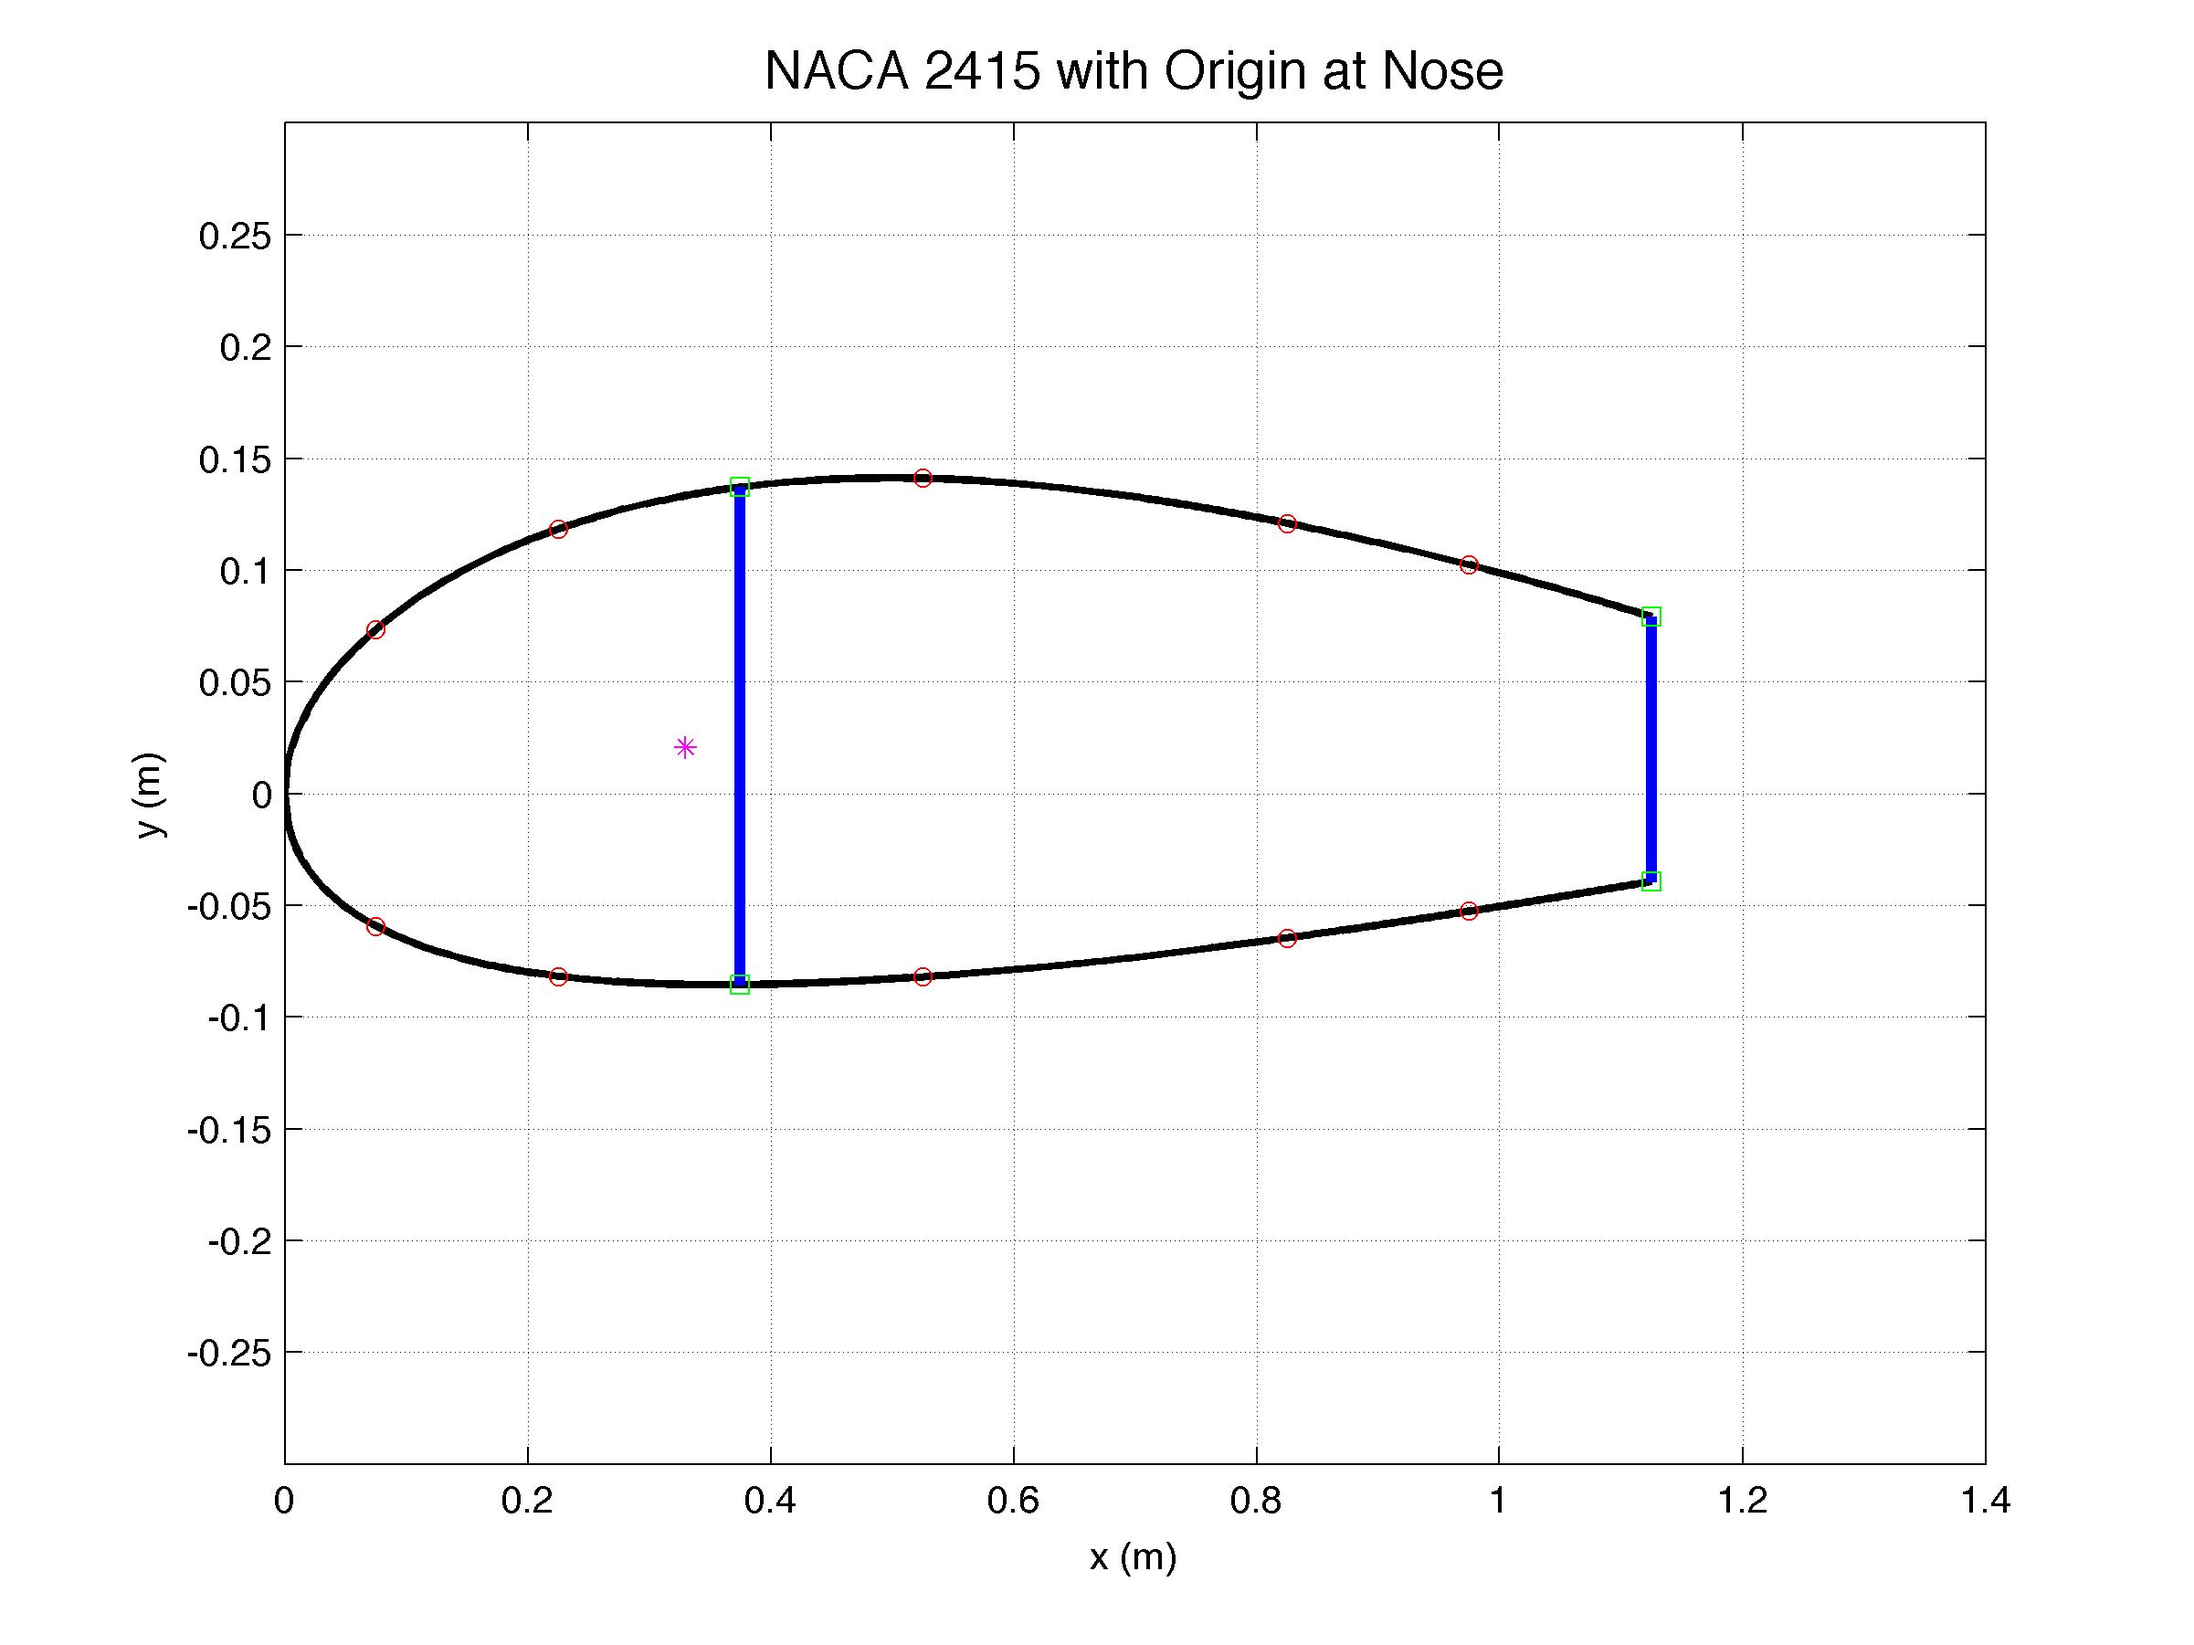
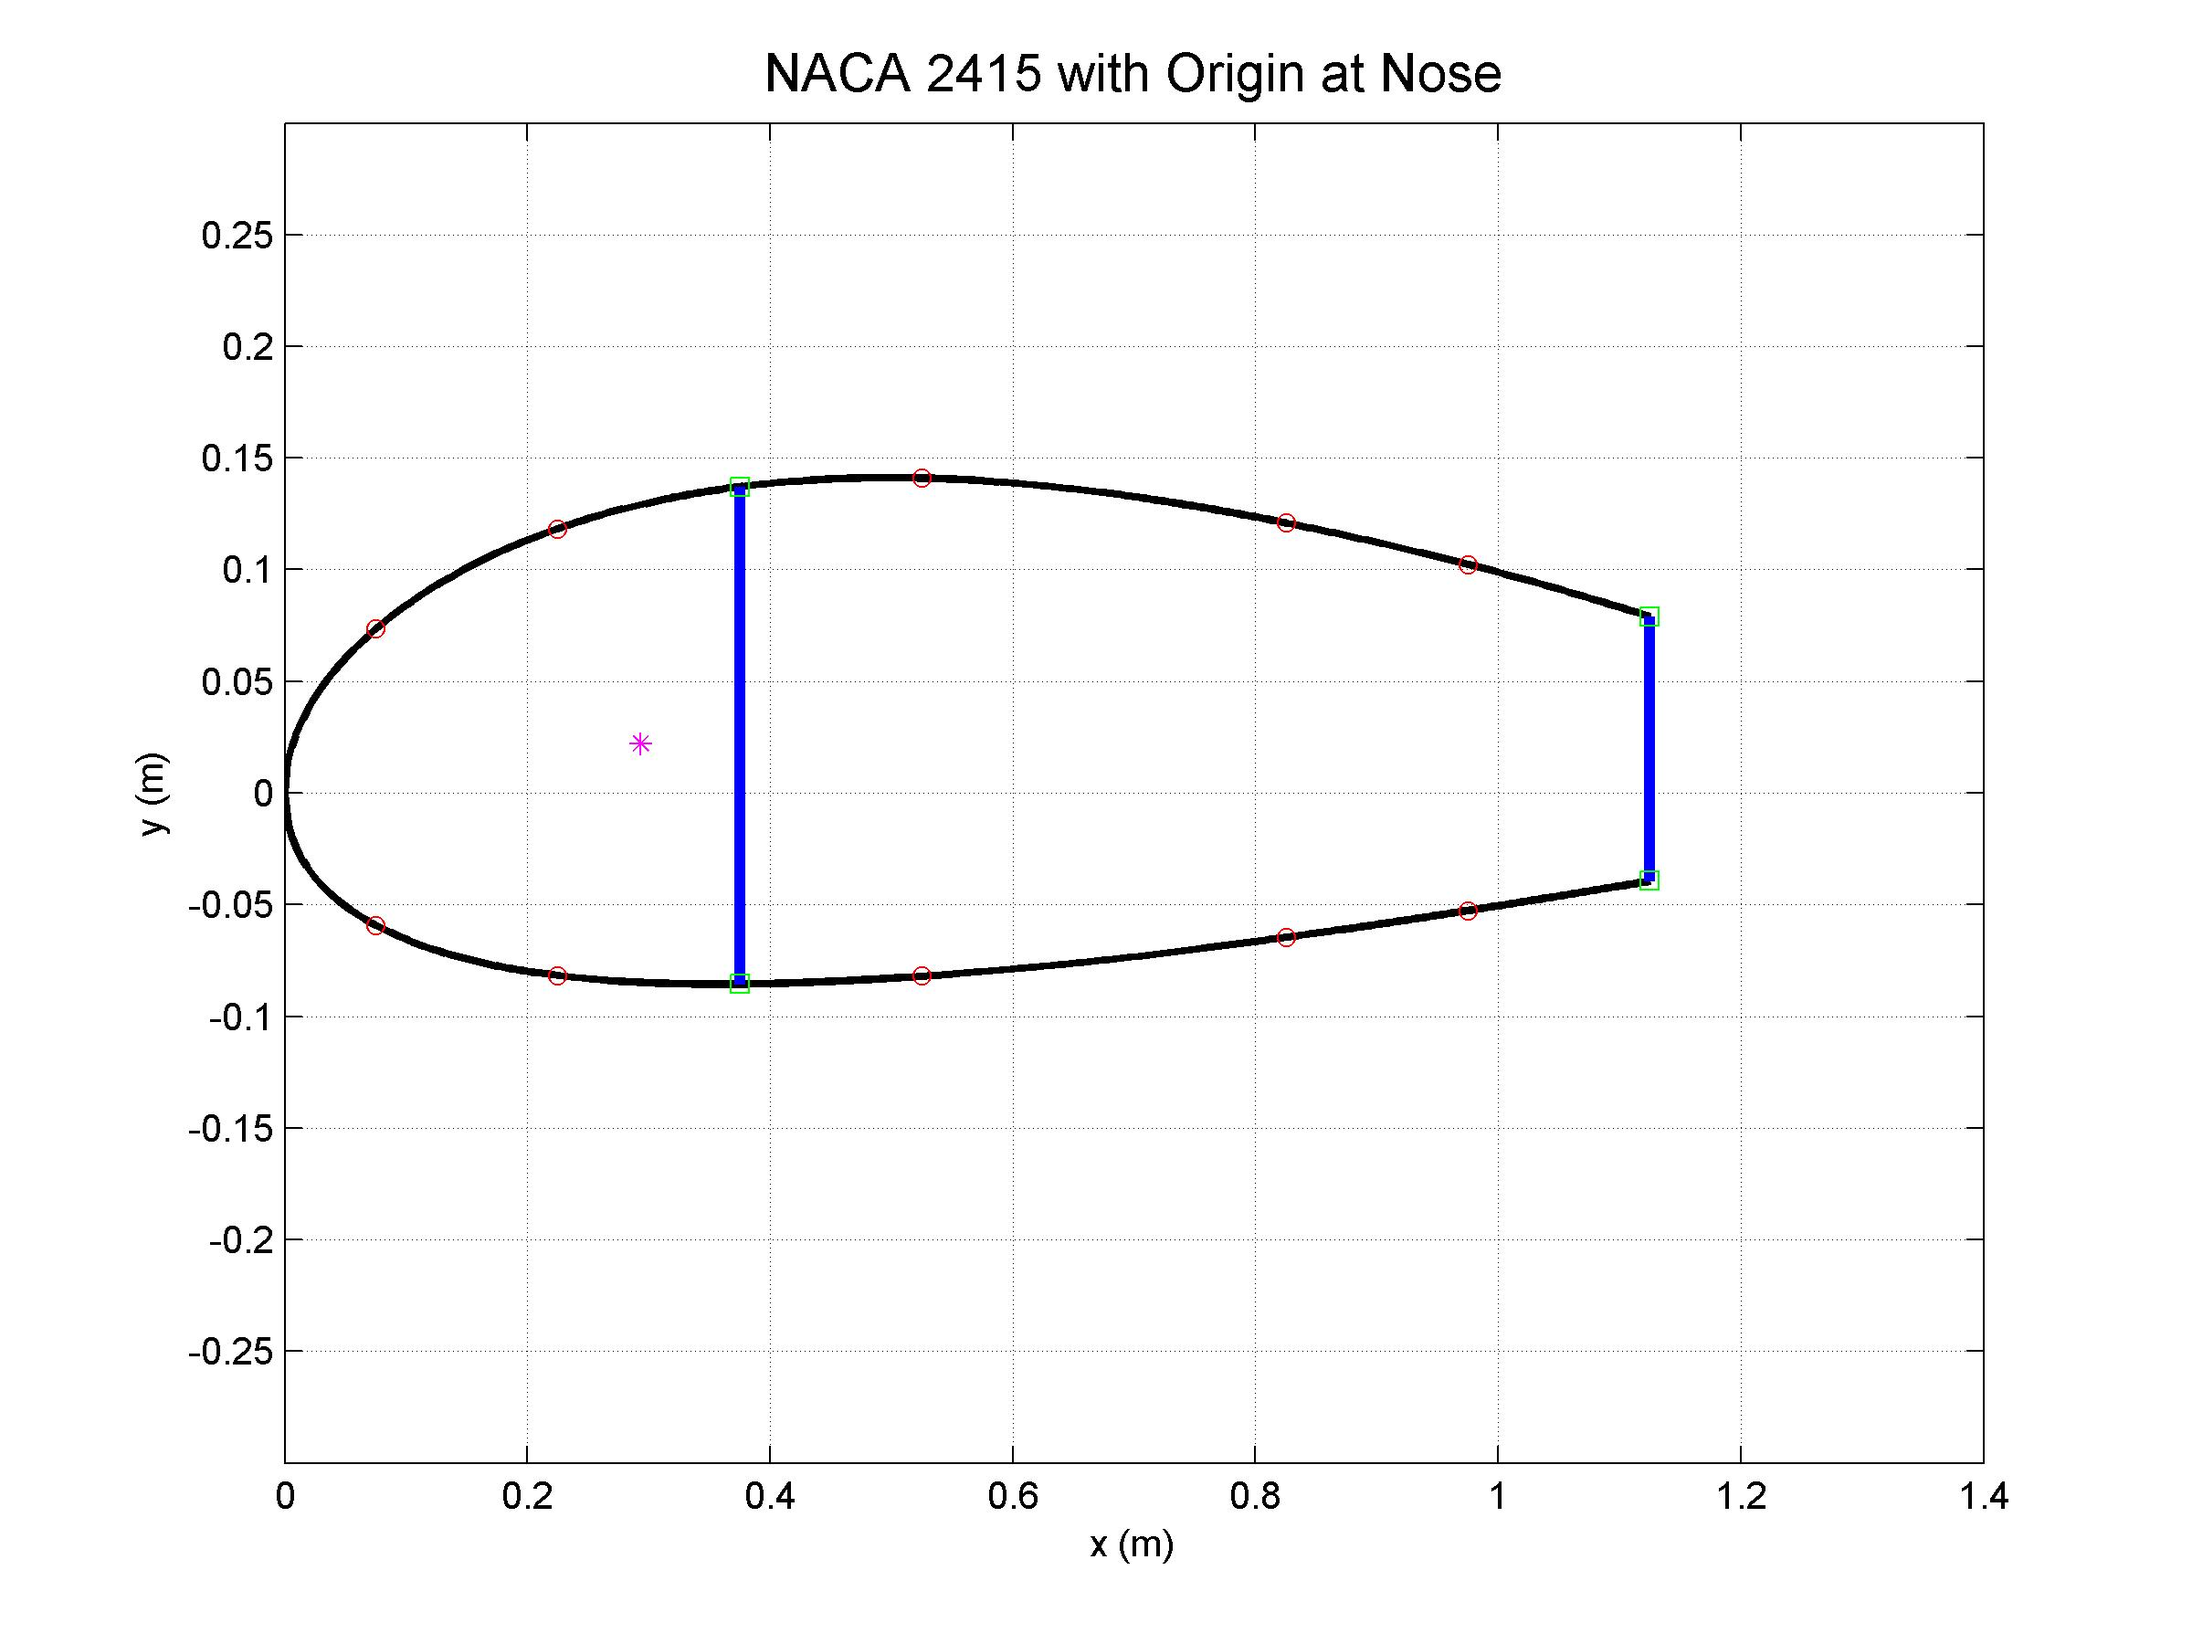
Open Shear Flow
work in progress...

diff --git a/airfoil_section.m b/airfoil_section.m
@@ -117,6 +117,7 @@ L_skinU = zeros(1,n_skinU);
 A_skinU = zeros(1,n_skinU);
 Cx_skinU = zeros(1,n_skinU);
 Cy_skinU = zeros(1,n_skinU);
+
 for i = 1:n_skinU
     L_skinU(i) = sqrt((yU(i_skinU(i+1)) - yU(i_skinU(i)))^2 + (x_skinU(i+1) - x_skinU(i))^2);
     A_skinU(i) = t_skin*L_skinU(i);
@@ -145,18 +146,24 @@ Cy_sum = 0;
 A_sum = 0;
 
 % 2 spars
-for i = 1:2
+for i = 1:length(x_spar)
     Cx_sum = Cx_sum + x_spar(i)*A_spar(i);
     Cy_sum = Cy_sum + Cy_spar(i)*A_spar(i);
     A_sum = A_sum + A_spar(i);
 end
 
 % spar caps
-for i = 1:2
-    Cx_sum = Cx_sum + x_spar(i)*A_cap;
-    Cy_sum = Cy_sum + yU(i_spar(i))*A_cap;
-    Cy_sum = Cy_sum + yL(i_spar(i))*A_cap;
-    A_sum  = A_sum  + 2*A_cap;
+for i = 1:length(x_spar)
+    if i ~= length(x_spar)
+        n = 2; % 2 spar caps per spar
+    else 
+        n = 1; % 1 spar cap for most rear spar (next to control surface)
+    end
+    Cx_sum = Cx_sum + x_spar(i)*n*A_cap;
+    Cy_sum = Cy_sum + yU(i_spar(i))*n*A_cap;
+    Cy_sum = Cy_sum + yL(i_spar(i))*n*A_cap;
+    A_sum  = A_sum  + 2*n*A_cap;
+
 end
 
 % upper stringers
@@ -196,7 +203,9 @@ if PLOT_AIRFOIL
     ylim([-0.3 0.3])
     hold on; grid on;
     plot(x_strU,yU(i_strU),'or',x_strL,yL(i_strL),'or','markersize',5);
-    plot([x_spar(1),x_spar(1)],[yU(i_spar(1)),yL(i_spar(1))],'b',[x_spar(2),x_spar(2)],[yU(i_spar(2)),yL(i_spar(2))],'b',[x(end),x(end)],[yU(end),yL(end)],'b','Linewidth',3);
+    for i = 1:length(x_spar)
+        plot([x_spar(i),x_spar(i)],[yU(i_spar(i)),yL(i_spar(i))],'b','Linewidth',3)
+    end
     plot(x_spar,yU(i_spar),'sg',x_spar,yL(i_spar),'sg','markersize',6);
     scatter(Cx,Cy,'m*')
     title('NACA 2415 with Origin at Nose','fontsize',14);
@@ -256,19 +265,29 @@ for i = 1:n_skinL
 end
 
 %% convert coordinates to centroid as origin
-airf_geo.x  = x  - Cx;              % x-coordinates (relative to centroid)
-airf_geo.xU = xU - Cx;              % x-coordinates of upper surface booms (rel to centroid)
-airf_geo.yU = yU - Cy;              % y-coordinates of upper surface booms (rel to centroid)
-airf_geo.xL = xL - Cx;              % x-coordiantes of lower surface booms (rel to centroid)
-airf_geo.yL = yL - Cy;              % y-coordinates of lower surface booms (rel to centroid)
-airf_geo.x_strU = x_strU - Cx;      % x-coordinates of upper stringers (rel to centroid)
-airf_geo.x_strL = x_strL - Cx;      % x-coordinates of lower strings (rel to centroid)
-airf_geo.x_spar = x_spar - Cx;      % x-coordinates of spars (rel to centroid)
-airf_geo.L_boomU = L_skinU;         % length between each upper surface boom
-airf_geo.L_boomL = L_skinL;         % length between each lower surface boom
-airf_geo.h_spar  = h_spar;          % height of each spar
-airf_geo.i_spar  = i_spar;          % index of each spar
-airf_geo.dx      = dx;              % change in x (m)
+x  = x  - Cx;              % x-coordinates (relative to centroid)
+xU = xU - Cx;              % x-coordinates of upper surface booms (rel to centroid)
+yU = yU - Cy;              % y-coordinates of upper surface booms (rel to centroid)
+xL = xL - Cx;              % x-coordiantes of lower surface booms (rel to centroid)
+yL = yL - Cy;              % y-coordinates of lower surface booms (rel to centroid)
+x_strU = x_strU - Cx;      % x-coordinates of upper stringers (rel to centroid)
+x_strL = x_strL - Cx;      % x-coordinates of lower strings (rel to centroid)
+x_spar = x_spar - Cx;      % x-coordinates of spars (rel to centroid)
+
+%% export outputs
+airf_geo.x  = x;               % x-coordinates (relative to centroid)
+airf_geo.xU = xU;              % x-coordinates of upper surface booms (rel to centroid)
+airf_geo.yU = yU;              % y-coordinates of upper surface booms (rel to centroid)
+airf_geo.xL = xL;              % x-coordiantes of lower surface booms (rel to centroid)
+airf_geo.yL = yL;              % y-coordinates of lower surface booms (rel to centroid)
+airf_geo.x_strU = x_strU;      % x-coordinates of upper stringers (rel to centroid)
+airf_geo.x_strL = x_strL;      % x-coordinates of lower strings (rel to centroid)
+airf_geo.x_spar = x_spar;      % x-coordinates of spars (rel to centroid)
+airf_geo.L_boomU = L_skinU;    % length between each upper surface boom
+airf_geo.L_boomL = L_skinL;    % length between each lower surface boom
+airf_geo.h_spar  = h_spar;     % height of each spar
+airf_geo.i_spar  = i_spar;     % index of each spar
+airf_geo.dx      = dx;         % change in x (m)
 
 if PLOT_AIRFOIL
     afc = figure();
@@ -276,7 +295,9 @@ if PLOT_AIRFOIL
     ylim([-0.3 0.3])
     hold on; grid on;
     plot(x_strU,yU(i_strU),'or',x_strL,yL(i_strL),'or','markersize',5);
-    plot([x_spar(1),x_spar(1)],[yU(i_spar(1)),yL(i_spar(1))],'b',[x_spar(2),x_spar(2)],[yU(i_spar(2)),yL(i_spar(2))],'b',[x(end),x(end)]-Cx,[yU(end),yL(end)],'b','Linewidth',3);
+    for i = 1:length(x_spar)
+        plot([x_spar(i),x_spar(i)],[yU(i_spar(i)),yL(i_spar(i))],'b','Linewidth',3)
+    end
     plot(x_spar,yU(i_spar),'sg',x_spar,yL(i_spar),'sg','markersize',6);
     scatter(Cx-Cx,Cy-Cy,'m*')
     title('NACA 2415 Normalized to Centroid','fontsize',14);

diff --git a/strjoin.m b/strjoin.m
@@ -1,0 +1,55 @@
+function output = strjoin(input, separator)
+%STRJOIN Concatenate an array into a single string.
+%
+%     S = strjoin(C)
+%     S = strjoin(C, separator)
+%
+% Description
+%
+% S = strjoin(C) takes an array C and returns a string S which concatenates
+% array elements with comma. C can be a cell array of strings, a character
+% array, a numeric array, or a logical array. If C is a matrix, it is first
+% flattened to get an array and concateneted. S = strjoin(C, separator) also
+% specifies separator for string concatenation. The default separator is comma.
+%
+% Examples
+%
+%     >> str = strjoin({'this','is','a','cell','array'})
+%     str =
+%     this,is,a,cell,array
+%
+%     >> str = strjoin([1,2,2],'_')
+%     str =
+%     1_2_2
+%
+%     >> str = strjoin({1,2,2,'string'},'\t')
+%     str =
+%     1 2 2 string
+%
+
+  if nargin < 2, separator = ','; end
+  assert(ischar(separator), 'Invalid separator input: %s', class(separator));
+  separator = strrep(separator, '%', '%%');
+
+  output = '';
+  if ~isempty(input)
+    if ischar(input)
+      input = cellstr(input);
+    end
+    if isnumeric(input) || islogical(input)
+      output = [repmat(sprintf(['%.15g', separator], input(1:end-1)), ...
+                       1, ~isscalar(input)), ...
+                sprintf('%.15g', input(end))];
+    elseif iscellstr(input)
+      output = [repmat(sprintf(['%s', separator], input{1:end-1}), ...
+                       1, ~isscalar(input)), ...
+                sprintf('%s', input{end})];
+    elseif iscell(input)
+      output = strjoin(cellfun(@(x)strjoin(x, separator), input, ...
+                               'UniformOutput', false), ...
+                       separator);
+    else
+      error('strjoin:invalidInput', 'Unsupported input: %s', class(input));
+    end
+  end
+end

diff --git a/main.m b/main.m
@@ -3,7 +3,7 @@ close all;
 clc;
 
 PLOT_FLTENVELOPE = 0; % set 1 to plot and save flight envelope plots
-PLOT_AIRFOIL = 0;     % set 1 to plot and save airfoil section plots
+PLOT_AIRFOIL = 1;     % set 1 to plot and save airfoil section plots
 PLOT_LIFTCURVE = 0;   % set 1 to plot and save lift curve slope plot
 PLOT_PREVIOUS = 0;    % set 1 to plot and save all load/shear plots
 
@@ -92,6 +92,10 @@ for ii = 1:length(n_allow_slvl.n)
                                     load_slvl(ii).wx,load_slvl(ii).wy,...
                                     load_slvl(ii).wx0,load_slvl(ii).wy0);
         
+        % calculate shear flow
+        temp_output(ii) = calc_shear_flow(Ixx,Iyy,Ixy,airf_geo,...
+                                moment_slvl(ii).Mx0, moment_slvl(ii).My0);             
+                                
         % PLOT
         if PLOT_PREVIOUS
         sx_fig = figure(106);
@@ -143,6 +147,9 @@ sigma_zz_MAX_slvl_val = max([sigma_zz_slvl(1:end).max])/1e6;
 sigma_zz_MAX_slvl_ind = find([sigma_zz_slvl(1:end).max]/1e6 == sigma_zz_MAX_slvl_val);
 disp(strjoin(['Max sigma_zz at Sea Level : ' num2str(sigma_zz_MAX_slvl_val) ...
     'MPa, occurs at : ' n_allow_slvl.name(sigma_zz_MAX_slvl_ind)]))
+
+
+
 
 if PLOT_PREVIOUS
 figure(100);    xlabel('Span (m)');     ylabel('Elliptical Lift Distribution (N/m)');
